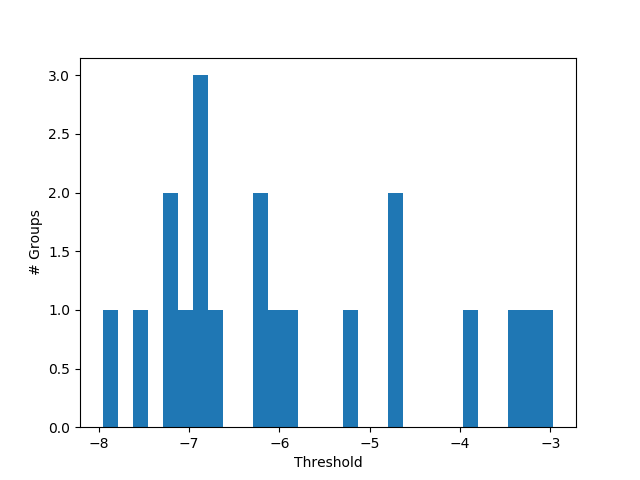
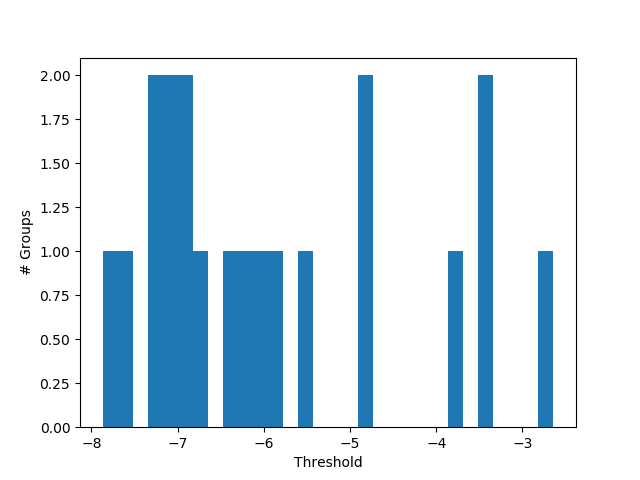
Bug fixes. Added plots.

diff --git a/compression.py b/compression.py
@@ -63,14 +63,15 @@ prev_conv_shape = None
 def compress_matrix(x, verbose):
     global prev_conv_shape
     if verbose:
-        print ("Before :", x.shape)
+        print (x.shape, end='\t--> ')
     if len(x.shape) != 2:
         A, B, C, D = x.shape
         x = x.reshape(A * B,  C * D)
         # remove non-necessary filters and rows
         x = x[:, (x != 0).any(axis=0)]
         x = x[(x != 0).any(axis=1), :]
-        print ("After (2D):", x.shape)
+        if verbose:
+            print (x.shape, end='\t--> ')
         if prev_conv_shape == None:
             x = x.reshape(-1, B,  C, D)
             prev_conv_shape = x.shape
@@ -82,7 +83,7 @@ def compress_matrix(x, verbose):
         x = x[(x != 0).any(axis=1), :]  # remove row that are completely 0
         x = x[:, (x != 0).any(axis=0)]  # remove col that are completely 0_com
     if verbose:
-        print ("After :", x.shape)
+        print (x.shape)
     return x
 
 
@@ -144,7 +145,7 @@ def compute_compression_rate(layers, masks):
     overflow = np.max(highest_weights)
     # compute compression rate
     CR_architecture, CR_fast_inference, _, _ = _compute_compression_rate(
-        weight_vars, dist_fun=lambda x: np.mean(x), overflow=overflow, compress_verbose=True)
+        weight_vars, dist_fun=lambda x: np.mean(x), overflow=overflow)
     print("Compressing the architecture will degrease the model by a factor of %.1f." % (
         CR_architecture))
     print("Making use of weight uncertainty can reduce the model by a factor of %.1f." % (
@@ -152,6 +153,7 @@ def compute_compression_rate(layers, masks):
 
 
 def compute_reduced_weights(layers, masks, prune=False):
+    print ("Computing reduced weights")
     global prev_conv_shape
     weight_mus, weight_vars, bias_mus = extract_pruned_params(
         layers, wt_masks=masks[0], bs_masks=masks[1])

diff --git a/lenet5_caffe.py b/lenet5_caffe.py
@@ -268,7 +268,6 @@ def main():
     compute_compression_rate(layers, masks)
 
     print("Test error after with reduced bit precision:")
-
     weights, biases = compute_reduced_weights(layers, masks, FLAGS.prune)
     for layer, weight, bias in zip(layers, weights, biases):
         if FLAGS.cuda:
@@ -292,10 +291,10 @@ if __name__ == '__main__':
     parser.add_argument('--fc2', type=float, default=-3.0)
     parser.add_argument('--fc3', type=float, default=-5.0)
     parser.add_argument('--batchsize', type=int, default=128)
-    parser.add_argument('--prune', type=bool, default=True)
+    parser.add_argument('--prune', type=int, default=True)
     parser.add_argument('--dataset', type=str, default='cifar10')
     parser.add_argument('--thresholds', type=float,
-                        nargs='*', default=[-5., -5., -2, -2.])
+                        nargs='*', default=[-5., -5., -3, -2.5])
 
     FLAGS = parser.parse_args()
 
